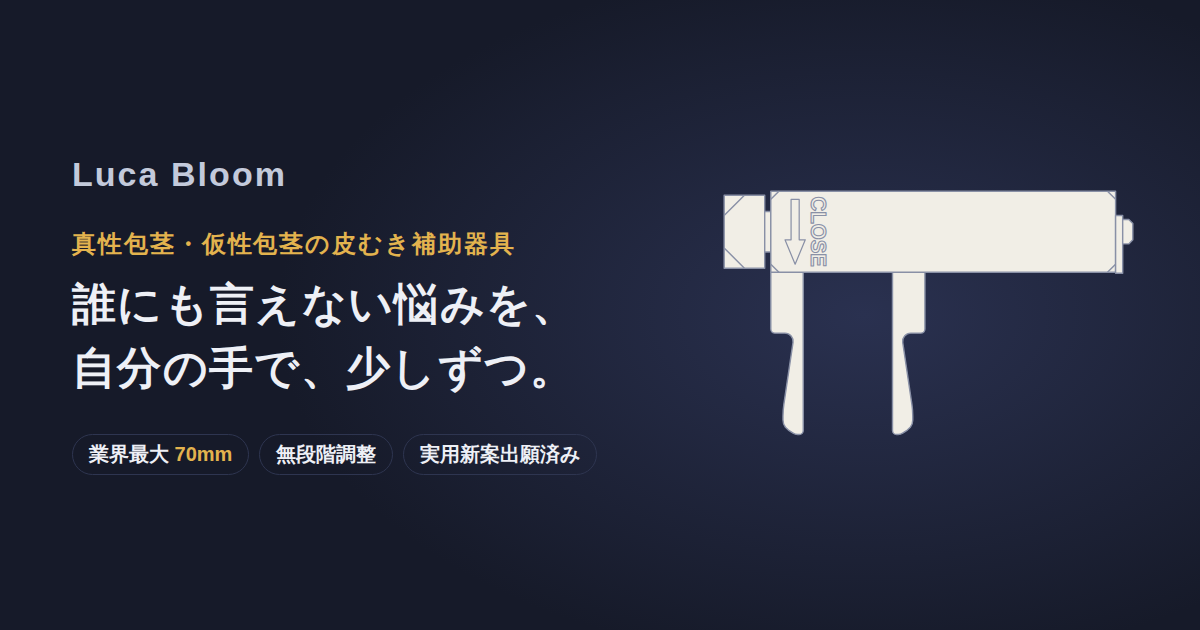
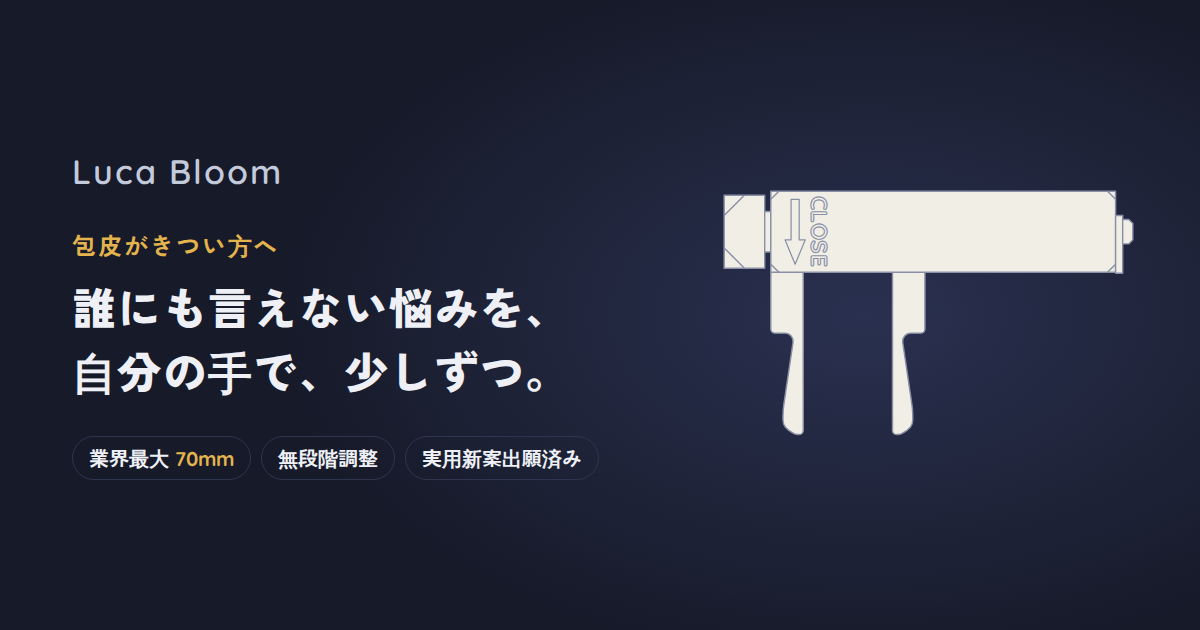
Update copy per review, show the gap in 1mm steps, open manual at top
Change the headline to 包皮がきつい方へ, rename the section to 包茎の種類,
drop the target chips, reword the worries, the types note, the ring
comparison and two FAQ answers to avoid efficacy claims, and emphasise
stepless adjustment in reason 03. Note that the gift box ships inside
an outer carton. Round the gap readout and slider to 1mm. Reset scroll
to the top on the support pages so the manual no longer opens at the
bottom. Regenerate the OG image.

Claude-Session: https://claude.ai/code/session_016YenGTG3x62jvD6ZRQeA6d

diff --git a/index.html b/index.html
@@ -3,8 +3,8 @@
 <head>
 <meta charset="utf-8">
 <meta name="viewport" content="width=device-width, initial-scale=1, viewport-fit=cover">
-<title>真性包茎・仮性包茎の皮むき補助器具｜包茎リングとの違い｜Luca Bloom</title>
-<meta name="description" content="真性包茎・仮性包茎など、包皮の口が狭くてむけない方の皮むき補助器具 Luca Bloom（ルカブルーム）。包茎リングと違い、狭い包皮の口そのものをハンドル操作で10〜70mmまで無段階に広げます。セルフロック構造・実用新案出願済み。">
+<title>包皮がきつい方へ｜包茎の種類と包茎リングとの違い｜Luca Bloom</title>
+<meta name="description" content="包皮がきつい方へ。Luca Bloom（ルカブルーム）は、包皮が狭い方や匂いが気になる方のためのセルフケアツール。ハンドルを回してアームの間隔を10〜70mmで無段階に調整でき、手を離してもその幅で止まるセルフロック構造。真性包茎・仮性包茎など包茎の種類や、包茎リングとの違いも紹介。実用新案出願済み。">
 <link rel="canonical" href="https://luca-bloom.com/">
 <meta name="robots" content="index,follow,max-image-preview:large">
 <meta name="theme-color" content="#161A29">
@@ -13,19 +13,19 @@
 <meta property="og:type" content="product">
 <meta property="og:site_name" content="Luca Bloom">
 <meta property="og:locale" content="ja_JP">
-<meta property="og:title" content="真性包茎・仮性包茎の皮むき補助器具｜包茎リングとの違い｜Luca Bloom">
-<meta property="og:description" content="真性包茎・仮性包茎の皮むき補助に。ハンドルを回すだけ。ずれにくく、手を離しても戻らない。最大70mmまで、自分のペースで広げられる皮むき補助セルフケアツール。">
+<meta property="og:title" content="包皮がきつい方へ｜包茎の種類と包茎リングとの違い｜Luca Bloom">
+<meta property="og:description" content="包皮がきつい方へ。ハンドルを回すだけで、アームの間隔を10〜70mmで無段階に調整。手を離してもその幅で止まるセルフケアツール。">
 <meta property="og:url" content="https://luca-bloom.com/">
 <meta property="og:image" content="https://luca-bloom.com/og.png">
 <meta property="og:image:width" content="1200">
 <meta property="og:image:height" content="630">
 <meta property="og:image:alt" content="Luca Bloom 本体の図">
 <meta name="twitter:card" content="summary_large_image">
-<meta name="twitter:title" content="真性包茎・仮性包茎の皮むき補助器具｜包茎リングとの違い｜Luca Bloom">
+<meta name="twitter:title" content="包皮がきつい方へ｜包茎の種類と包茎リングとの違い｜Luca Bloom">
 <meta name="twitter:image" content="https://luca-bloom.com/og.png">
-<script type="application/ld+json">{"@context":"https://schema.org","@type":"Product","name":"Luca Bloom","alternateName":"ルカブルーム","description":"真性包茎・仮性包茎など、包皮の口が狭くてむけない方の皮むき補助器具 Luca Bloom（ルカブルーム）。包茎リングと違い、狭い包皮の口そのものをハンドル操作で10〜70mmまで無段階に広げます。セルフロック構造・実用新案出願済み。","brand":{"@type":"Brand","name":"Luca Bloom"},"image":["https://luca-bloom.com/og.png"],"material":"POM（ポリアセタール樹脂）","category":"メンズケア・包茎セルフケア用品","additionalProperty":[{"@type":"PropertyValue","name":"開き幅","value":"10〜70mm"},{"@type":"PropertyValue","name":"本体サイズ","value":"85×20×20mm"}],"offers":{"@type":"Offer","url":"https://www.amazon.co.jp/dp/B0HHXQ1X4C","availability":"https://schema.org/InStock"}}</script>
-<script type="application/ld+json">{"@context":"https://schema.org","@type":"FAQPage","mainEntity":[{"@type":"Question","name":"真性包茎・仮性包茎のどちらに使えますか？","acceptedAnswer":{"@type":"Answer","text":"包皮が狭く、亀頭が露出しにくい方に向けたセルフケアツールです。真性・仮性を問わず、包皮の狭い部分を少しずつ広げる皮むき補助としてお使いいただけます。痛みや症状がある場合は医師にご相談ください。"}},{"@type":"Question","name":"包茎リングとは何が違いますか？","acceptedAnswer":{"@type":"Answer","text":"包茎リングは、むいた包皮を根元側に留めておくための輪です。Luca Bloomは、包皮の口が狭くてむけない方のために、その口を内側から少しずつ広げる器具です。"}},{"@type":"Question","name":"家族に中身を知られませんか？","acceptedAnswer":{"@type":"Answer","text":"箱にはブランド名「Luca Bloom」だけが入っており、製品名から梱包まで、ひと目で用途がわからないようにしています。"}},{"@type":"Question","name":"痛くないですか？","acceptedAnswer":{"@type":"Answer","text":"無段階で少しずつ開けるので、痛みを感じない幅で止められます。クリームやオイルで保湿・潤滑してからお使いください。痛みや異変があれば、すぐに使用を中止してください。"}},{"@type":"Question","name":"どれくらい使えばいいですか？","acceptedAnswer":{"@type":"Answer","text":"1回30分以内、24時間の合計1時間以内でお使いください。就寝中の使用はできません。焦らず、十分な期間をかけてお使いください。"}},{"@type":"Question","name":"アームの先端が少し開いています。","acceptedAnswer":{"@type":"Answer","text":"個体差により、アームの先端がわずかに開いている場合があります。製品の仕様ですので、ご了承ください。"}},{"@type":"Question","name":"医療機器ですか？","acceptedAnswer":{"@type":"Answer","text":"本製品は雑貨であり、医療機器ではありません。治療に関する効果をうたうものではありません。"}}]}</script>
-<script type="application/ld+json">{"@context":"https://schema.org","@type":"WebPage","name":"真性包茎・仮性包茎の皮むき補助器具｜包茎リングとの違い｜Luca Bloom","url":"https://luca-bloom.com/","inLanguage":"ja","description":"真性包茎・仮性包茎など、包皮の口が狭くてむけない方の皮むき補助器具 Luca Bloom（ルカブルーム）。包茎リングと違い、狭い包皮の口そのものをハンドル操作で10〜70mmまで無段階に広げます。セルフロック構造・実用新案出願済み。","keywords":"真性包茎,仮性包茎,仮性包茎リング,包茎リング,カントン包茎,皮むき補助,包皮 狭い,包茎 セルフケア"}</script>
+<script type="application/ld+json">{"@context":"https://schema.org","@type":"Product","name":"Luca Bloom","alternateName":"ルカブルーム","description":"包皮がきつい方へ。Luca Bloom（ルカブルーム）は、包皮が狭い方や匂いが気になる方のためのセルフケアツール。ハンドルを回してアームの間隔を10〜70mmで無段階に調整でき、手を離してもその幅で止まるセルフロック構造。真性包茎・仮性包茎など包茎の種類や、包茎リングとの違いも紹介。実用新案出願済み。","brand":{"@type":"Brand","name":"Luca Bloom"},"image":["https://luca-bloom.com/og.png"],"material":"POM（ポリアセタール樹脂）","category":"メンズケア・包茎セルフケア用品","additionalProperty":[{"@type":"PropertyValue","name":"開き幅","value":"10〜70mm"},{"@type":"PropertyValue","name":"本体サイズ","value":"85×20×20mm"}],"offers":{"@type":"Offer","url":"https://www.amazon.co.jp/dp/B0HHXQ1X4C","availability":"https://schema.org/InStock"}}</script>
+<script type="application/ld+json">{"@context":"https://schema.org","@type":"FAQPage","mainEntity":[{"@type":"Question","name":"真性包茎・仮性包茎のどちらに使えますか？","acceptedAnswer":{"@type":"Answer","text":"Luca Bloomは、包皮が狭い方や匂いが気になる方のためのセルフケアツール（雑貨）です。特定の症状の改善や治療を目的としたものではありません。痛み・腫れ・傷などがある場合や、治療中の方はご使用にならず、医師にご相談ください。"}},{"@type":"Question","name":"包茎リングとは何が違いますか？","acceptedAnswer":{"@type":"Answer","text":"包茎リングは、むいた包皮を根元側に留めておくための輪です。Luca Bloomは、ハンドルを回してアームの間隔を10〜70mmの間で無段階に調整する、リングをつけられない方のためのセルフケアツールです。"}},{"@type":"Question","name":"家族に中身を知られませんか？","acceptedAnswer":{"@type":"Answer","text":"箱にはブランド名「Luca Bloom」だけが入っており、製品名から梱包まで、ひと目で用途がわからないようにしています。"}},{"@type":"Question","name":"痛くないですか？","acceptedAnswer":{"@type":"Answer","text":"無段階で少しずつ開けるので、痛みを感じない幅で止められます。クリームやオイルで保湿・潤滑してからお使いください。痛みや異変があれば、すぐに使用を中止してください。"}},{"@type":"Question","name":"どれくらい使えばいいですか？","acceptedAnswer":{"@type":"Answer","text":"1回30分以内、24時間の合計1時間以内でお使いください。就寝中の使用はできません。焦らず、十分な期間をかけてお使いください。"}},{"@type":"Question","name":"アームの先端が少し開いています。","acceptedAnswer":{"@type":"Answer","text":"個体差により、アームの先端がわずかに開いている場合があります。製品の仕様ですので、ご了承ください。"}},{"@type":"Question","name":"医療機器ですか？","acceptedAnswer":{"@type":"Answer","text":"本製品は雑貨であり、医療機器ではありません。治療に関する効果をうたうものではありません。"}}]}</script>
+<script type="application/ld+json">{"@context":"https://schema.org","@type":"WebPage","name":"包皮がきつい方へ｜包茎の種類と包茎リングとの違い｜Luca Bloom","url":"https://luca-bloom.com/","inLanguage":"ja","description":"包皮がきつい方へ。Luca Bloom（ルカブルーム）は、包皮が狭い方や匂いが気になる方のためのセルフケアツール。ハンドルを回してアームの間隔を10〜70mmで無段階に調整でき、手を離してもその幅で止まるセルフロック構造。真性包茎・仮性包茎など包茎の種類や、包茎リングとの違いも紹介。実用新案出願済み。","keywords":"包皮がきつい,包茎の種類,真性包茎,仮性包茎,包茎リング,仮性包茎リング,セルフケアツール,Luca Bloom"}</script>
 <link rel="preconnect" href="https://fonts.googleapis.com">
 <link rel="preconnect" href="https://fonts.gstatic.com" crossorigin>
 <link rel="stylesheet" href="https://fonts.googleapis.com/css2?family=Montserrat:wght@200&family=Quicksand:wght@500;600;700&family=Zen+Kaku+Gothic+New:wght@400;500;700;900&display=swap">
@@ -129,7 +129,6 @@ small.gl{font-size:12px;color:var(--muted);font-weight:400}
 .types>div{background:var(--white);border-radius:16px;padding:16px 18px;display:grid;gap:4px}
 .types h3{font-size:18px;font-weight:900}
 .types p{font-size:14px;color:#3E4352;line-height:1.7}
-.types .fit{justify-self:start;margin-top:4px;font-size:11.5px;font-weight:700;color:var(--navy);background:#F3E6C4;border-radius:99px;padding:2px 10px}
 .types-note{margin-top:14px;font-size:13.5px;color:var(--muted);line-height:1.75}
 .sec .h2-next{margin-top:52px}
 .cmp{margin-top:18px;background:var(--white);border-radius:16px;overflow:hidden;font-size:13.5px;line-height:1.55}
@@ -238,7 +237,7 @@ footer p{margin-top:8px}
       <a class="logo" href="#top">Luca Bloom</a>
       <span class="pill">実用新案出願済み</span>
     </div>
-    <h1 id="top"><span class="for">真性包茎・仮性包茎の皮むき補助器具</span><span class="catch"><span>誰にも言えない</span><span>悩みを、</span><br><span>自分の手で、</span><span>少しずつ。</span></span></h1>
+    <h1 id="top"><span class="for">包皮がきつい方へ</span><span class="catch"><span>誰にも言えない</span><span>悩みを、</span><br><span>自分の手で、</span><span>少しずつ。</span></span></h1>
     <p class="lead">ハンドルを回すだけ。ずれにくく、手を離しても戻らない。最大70mmまで、あなたのペースで広げられます。</p>
 
     <div class="stage" id="stage" aria-label="Luca Bloomの3Dモデル。横にドラッグすると回転します。">
@@ -254,7 +253,7 @@ footer p{margin-top:8px}
     </div>
     <div class="meter">
       <div class="meter-row"><span>ハンドルを回して開き幅を調整</span><b id="gapv">10<small>mm</small></b></div>
-      <input id="gap" type="range" min="10" max="70" step="0.5" value="10" aria-label="開き幅">
+      <input id="gap" type="range" min="10" max="70" step="1" value="10" aria-label="開き幅">
       <div class="ends"><span>10mm</span><span>MAX 70mm</span></div>
     </div>
 
@@ -278,7 +277,7 @@ footer p{margin-top:8px}
     <p class="label">Your worries</p>
     <h2>こんなお悩み、<br>ひとりで<span style="display:inline-block">抱えていませんか？</span></h2>
     <ul class="worry">
-      <li><svg viewBox="0 0 22 22" aria-hidden="true"><circle cx="11" cy="11" r="10" fill="#161A29"/><path d="M6.5 11.2l3 3 6-6.4" fill="none" stroke="#E3B34E" stroke-width="2.2" stroke-linecap="round" stroke-linejoin="round"/></svg>包皮の口が狭くて、むけない。むくと痛い。</li>
+      <li><svg viewBox="0 0 22 22" aria-hidden="true"><circle cx="11" cy="11" r="10" fill="#161A29"/><path d="M6.5 11.2l3 3 6-6.4" fill="none" stroke="#E3B34E" stroke-width="2.2" stroke-linecap="round" stroke-linejoin="round"/></svg>包皮の口が狭くて困っている。</li>
       <li><svg viewBox="0 0 22 22" aria-hidden="true"><circle cx="11" cy="11" r="10" fill="#161A29"/><path d="M6.5 11.2l3 3 6-6.4" fill="none" stroke="#E3B34E" stroke-width="2.2" stroke-linecap="round" stroke-linejoin="round"/></svg>誰かに相談するのは、正直恥ずかしい。</li>
       <li><svg viewBox="0 0 22 22" aria-hidden="true"><circle cx="11" cy="11" r="10" fill="#161A29"/><path d="M6.5 11.2l3 3 6-6.4" fill="none" stroke="#E3B34E" stroke-width="2.2" stroke-linecap="round" stroke-linejoin="round"/></svg>器具を試したけど、ずれる・痛い・続かない。</li>
       <li><svg viewBox="0 0 22 22" aria-hidden="true"><circle cx="11" cy="11" r="10" fill="#161A29"/><path d="M6.5 11.2l3 3 6-6.4" fill="none" stroke="#E3B34E" stroke-width="2.2" stroke-linecap="round" stroke-linejoin="round"/></svg>家族に届いた荷物を見られたくない。</li>
@@ -300,7 +299,7 @@ footer p{margin-top:8px}
 
       <article class="reason">
         <div class="ill">
-          <svg viewBox="-9 -3 70 64" role="img" aria-label="真性包茎・仮性包茎の皮むき補助：逆テーパーアームのくぼみに包皮が収まり、太い先端で抜けにくい様子">
+          <svg viewBox="-9 -3 70 64" role="img" aria-label="逆テーパーアームのくぼみに包皮が収まり、太い先端で抜けにくい様子">
             <path d="M4.6 37.5A10.4 2.4 0 0 1 25.4 37.5" fill="none" stroke="#C9707F" stroke-width="1.3" opacity=".55"/>
             <g fill="#FFFFFF" stroke="#8990A6" stroke-width=".35" stroke-linejoin="round">
               <use href="#lb-arm" transform="translate(8 20) scale(-1 1)"/>
@@ -381,13 +380,13 @@ footer p{margin-top:8px}
             <path d="M214 84v-12a16 16 0 0 1 32 0v12" fill="none" stroke="#161A29" stroke-width="7"/>
             <circle cx="230" cy="104" r="6" fill="#E3B34E"/>
             <path d="M230 108v10" stroke="#E3B34E" stroke-width="4" stroke-linecap="round"/>
-            <text x="92" y="165" text-anchor="middle" font-family="Zen Kaku Gothic New,sans-serif" font-size="12" font-weight="700" fill="#161A29">ハンドルを回すだけ</text>
+            <text x="92" y="165" text-anchor="middle" font-family="Zen Kaku Gothic New,sans-serif" font-size="12" font-weight="700" fill="#161A29">無段階調整</text>
             <text x="230" y="165" text-anchor="middle" font-family="Zen Kaku Gothic New,sans-serif" font-size="12" font-weight="700" fill="#161A29">戻らない</text>
           </svg>
         </div>
         <div class="body">
           <p class="no">REASON 03</p>
-          <h3>回すだけ。<br>手を離しても戻らない。</h3>
+          <h3>無段階調整で、<br>ちょうどいい幅にぴたり。</h3>
           <p>ハンドルを回すと、アームがなめらかに開きます。段階ではなく無段階なので、「ちょうどいい幅」でぴたりと止められます。ネジの力でその位置に固定される構造<small class="gl">（セルフロック）</small>なので、手を離しても急に閉じません。</p>
         </div>
       </article>
@@ -422,20 +421,20 @@ footer p{margin-top:8px}
 <section class="sec" id="houkei" style="padding-top:0">
   <div class="wrap">
     <p class="label">About</p>
-    <h2>真性包茎・仮性包茎とは</h2>
+    <h2>包茎の種類</h2>
     <div class="types">
-      <div><h3>真性包茎</h3><p>包皮の口が狭く、手でむいても亀頭を出せない状態。</p><span class="fit">Luca Bloomの対象</span></div>
-      <div><h3>仮性包茎</h3><p>ふだんは包皮をかぶっているが、手でむけば亀頭を出せる状態。むくと口が締めつけられる方も。</p><span class="fit">口が狭い方に</span></div>
-      <div><h3>カントン包茎</h3><p>むくことはできても、包皮の口が狭く、根元側で締めつけられる状態。</p><span class="fit">口が狭い方に</span></div>
+      <div><h3>真性包茎</h3><p>包皮の口が狭く、手でむいても亀頭を出せない状態。</p></div>
+      <div><h3>仮性包茎</h3><p>ふだんは包皮をかぶっているが、手でむけば亀頭を出せる状態。むくと口が締めつけられる方も。</p></div>
+      <div><h3>カントン包茎</h3><p>むくことはできても、包皮の口が狭く、根元側で締めつけられる状態。</p></div>
     </div>
-    <p class="types-note">Luca Bloomは、包皮の口が狭くて「むけない」「むくと痛い」方のための皮むき補助器具です。狭い口を内側から少しずつ広げます。<br>痛み・腫れ・出血がある場合や、むいた包皮が戻らない場合は、すぐに医療機関を受診してください。</p>
+    <p class="types-note">Luca Bloomは、包皮が狭い方や匂いが気になる方のためのセルフケアツールです。<br>痛み・腫れ・出血がある場合や、むいた包皮が戻らない場合は、すぐに医療機関を受診してください。</p>
 
     <h2 class="h2-next">仮性包茎リングとの違い</h2>
-    <p class="sub">仮性包茎リング（包茎リング）は、むいた包皮を根元側に留めておくための輪です。包皮の口が狭く、むけない状態ではリングを付けられません。</p>
+    <p class="sub">仮性包茎リング（包茎リング）は、むいた包皮を根元側に留めておくための輪です。リングをつけられない方のためのLuca Bloomです。</p>
     <div class="cmp" role="table" aria-label="包茎リングとLuca Bloomの比較">
       <div class="r h" role="row"><span role="columnheader"></span><span role="columnheader">包茎リング</span><span role="columnheader">Luca Bloom</span></div>
       <div class="r" role="row"><span role="rowheader">目的</span><span role="cell">むいた状態を保つ</span><span role="cell">狭い口を広げる</span></div>
-      <div class="r" role="row"><span role="rowheader">向いている方</span><span role="cell">手でむける方</span><span role="cell">むけない・むくと痛い方</span></div>
+      <div class="r" role="row"><span role="rowheader">向いている方</span><span role="cell">手でむける方</span><span role="cell">包皮がきつい方</span></div>
       <div class="r" role="row"><span role="rowheader">サイズ</span><span role="cell">輪の大きさを選ぶ</span><span role="cell">1台で10〜70mm無段階</span></div>
     </div>
     <p class="types-note">「リングを使いたいけれど、そもそもむけない」という方の、最初の一歩に。</p>
@@ -451,8 +450,9 @@ footer p{margin-top:8px}
     <div class="boxstage" id="boxstage" aria-label="化粧箱の3Dモデル。横にドラッグすると回転します。">
       <div class="fb" id="boxfb"><svg viewBox="-228.24 -82.00 402.78 337.00" role="img" aria-label="PANTONE 289 Cのボックス。背面にCool Gray 1 Cで「Luca Bloom」の文字だけ"><ellipse cx="-26.85" cy="229.00" rx="169.17" ry="9" fill="#0E1120" opacity=".55"/><path d="M0.00 -72.00 L-218.24 54.00 L-53.69 149.00 L164.54 23.00Z" fill="#1A3A63" stroke="#2C4A78" stroke-width="0.6" stroke-linejoin="round"/><path d="M164.54 95.00 L-53.69 221.00 L-53.69 149.00 L164.54 23.00Z" fill="#0C2340" stroke="#2C4A78" stroke-width="0.6" stroke-linejoin="round"/><path d="M-218.24 126.00 L-53.69 221.00 L-53.69 149.00 L-218.24 54.00Z" fill="#081A31" stroke="#2C4A78" stroke-width="0.6" stroke-linejoin="round"/><path d="M-218.24 62.00L-53.69 157.00" stroke="#2C4A78" stroke-width=".8"/><text transform="matrix(1.73 -1.00 0 2.00 55.43 122.00)" x="0" y="3.25" text-anchor="middle" font-family="Montserrat,Quicksand,sans-serif" font-weight="200" font-size="9.2" textLength="50" lengthAdjust="spacingAndGlyphs" fill="#D9D9D6">Luca Bloom</text></svg><svg viewBox="-203.12 -506.61 431.36 532.61" role="img" aria-label="ボックスを開けた状態。黒いクッション材の専用くぼみに本体が収まり、フタの内側に名刺サイズのポケット"><ellipse cx="12.56" cy="8.00" rx="181.17" ry="9" fill="#0E1120" opacity=".55"/><path d="M-164.54 -167.00 L53.69 -293.00 L25.12 -496.61 L-193.12 -370.61Z" fill="#10284A" stroke="#2C4A78" stroke-width="0.6" stroke-linejoin="round"/><path d="M-143.83 -219.51 L22.45 -315.51 L4.40 -444.10 L-161.87 -348.10Z" fill="#0C2340" stroke="#3A5584" stroke-width="0.8" stroke-linejoin="round"/><path d="M-61.41 -406.10 L-61.16 -401.73 L-61.58 -397.14 L-62.66 -392.51 L-64.36 -388.02 L-66.61 -383.84 L-69.33 -380.13 L-72.41 -377.03 L-75.73 -374.67 L-79.16 -373.13 L-82.58 -372.47 L-85.86 -372.73 L-88.86 -373.88 L-91.47 -375.88 L-93.59 -378.66 L-95.14 -382.11 L-96.06 -386.10Z" fill="#081A31" stroke="#3A5584" stroke-width="0.8" stroke-linejoin="round"/><path d="M-157.62 -159.00 L53.69 -281.00 L53.69 -289.00 L-157.62 -167.00Z" fill="#081A31"/><path d="M211.31 -190.00 L53.69 -281.00 L53.69 -289.00 L211.31 -198.00Z" fill="#0A1F3A"/><path d="M0.00 -68.00 L211.31 -190.00 L53.69 -281.00 L-157.62 -159.00Z" fill="#161616" stroke="#000" stroke-width="0.5" stroke-linejoin="round"/><g transform="matrix(1.73 -1.00 1.73 1.00 -84.70 -161.10)"><g fill="#050505"><circle cx="42.4" cy="-0.5" r="10"/><circle cx="42.4" cy="20.5" r="10"/></g><g fill="#050505" stroke="#050505" stroke-width="2.2" stroke-linejoin="round"><use href="#lb-arm" transform="translate(8 20) scale(-1 1)"/><use href="#lb-arm" transform="translate(8 20)"/><use href="#lb-body"/></g><g fill="#ECE8DF" stroke="#A8A294" stroke-width=".3" stroke-linejoin="round"><use href="#lb-arm" transform="translate(8 20) scale(-1 1)"/><use href="#lb-arm" transform="translate(8 20)"/><use href="#lb-body"/></g></g><path d="M0.00 0.00 L-164.54 -95.00 L-164.54 -167.00 L0.00 -72.00Z" fill="#081A31" stroke="#2C4A78" stroke-width="0.6" stroke-linejoin="round"/><path d="M0.00 0.00 L218.24 -126.00 L218.24 -198.00 L0.00 -72.00Z" fill="#0C2340" stroke="#2C4A78" stroke-width="0.6" stroke-linejoin="round"/><path d="M0.00 -72.00L218.24 -198.00L53.69 -293.00M0.00 -72.00L-164.54 -167.00" fill="none" stroke="#2C4A78" stroke-width="1.2"/></svg></div>
     </div>
-    <p class="box-cap">外から見えるのは、背面の「Luca Bloom」の文字だけ。<br>開けると、黒いクッション材の専用くぼみに本体が収まっています。</p>
+    <p class="box-cap">化粧箱の表記は、背面の「Luca Bloom」の文字だけ。<br>発送時は、この化粧箱をさらに段ボール等で梱包してお届けします。</p>
     <ul class="privacy-points">
+      <li><svg viewBox="0 0 20 20" aria-hidden="true"><circle cx="10" cy="10" r="9" fill="none" stroke="#E3B34E" stroke-width="1.6"/><path d="M6 10.2l2.6 2.6L14 7.4" fill="none" stroke="#E3B34E" stroke-width="1.8" stroke-linecap="round" stroke-linejoin="round"/></svg>発送時は、化粧箱をさらに段ボール等で梱包</li>
       <li><svg viewBox="0 0 20 20" aria-hidden="true"><circle cx="10" cy="10" r="9" fill="none" stroke="#E3B34E" stroke-width="1.6"/><path d="M6 10.2l2.6 2.6L14 7.4" fill="none" stroke="#E3B34E" stroke-width="1.8" stroke-linecap="round" stroke-linejoin="round"/></svg>箱にはブランド名「Luca Bloom」だけ</li>
       <li><svg viewBox="0 0 20 20" aria-hidden="true"><circle cx="10" cy="10" r="9" fill="none" stroke="#E3B34E" stroke-width="1.6"/><path d="M6 10.2l2.6 2.6L14 7.4" fill="none" stroke="#E3B34E" stroke-width="1.8" stroke-linecap="round" stroke-linejoin="round"/></svg>本体は専用のクッション材に収めてお届け</li>
       <li><svg viewBox="0 0 20 20" aria-hidden="true"><circle cx="10" cy="10" r="9" fill="none" stroke="#E3B34E" stroke-width="1.6"/><path d="M6 10.2l2.6 2.6L14 7.4" fill="none" stroke="#E3B34E" stroke-width="1.8" stroke-linecap="round" stroke-linejoin="round"/></svg>そのまま引き出しにしまえる上質なボックス</li>
@@ -515,8 +515,8 @@ footer p{margin-top:8px}
     <p class="label">FAQ</p>
     <h2>よくある質問</h2>
     <div class="faq">
-      <details><summary>真性包茎・仮性包茎のどちらに使えますか？</summary><p>包皮が狭く、亀頭が露出しにくい方に向けたセルフケアツールです。真性・仮性を問わず、包皮の狭い部分を少しずつ広げる皮むき補助としてお使いいただけます。痛みや症状がある場合は医師にご相談ください。</p></details>
-      <details><summary>包茎リングとは何が違いますか？</summary><p>包茎リングは、むいた包皮を根元側に留めておくための輪です。Luca Bloomは、包皮の口が狭くてむけない方のために、その口を内側から少しずつ広げる器具です。</p></details>
+      <details><summary>真性包茎・仮性包茎のどちらに使えますか？</summary><p>Luca Bloomは、包皮が狭い方や匂いが気になる方のためのセルフケアツール（雑貨）です。特定の症状の改善や治療を目的としたものではありません。痛み・腫れ・傷などがある場合や、治療中の方はご使用にならず、医師にご相談ください。</p></details>
+      <details><summary>包茎リングとは何が違いますか？</summary><p>包茎リングは、むいた包皮を根元側に留めておくための輪です。Luca Bloomは、ハンドルを回してアームの間隔を10〜70mmの間で無段階に調整する、リングをつけられない方のためのセルフケアツールです。</p></details>
       <details><summary>家族に中身を知られませんか？</summary><p>箱にはブランド名「Luca Bloom」だけが入っており、製品名から梱包まで、ひと目で用途がわからないようにしています。</p></details>
       <details><summary>痛くないですか？</summary><p>無段階で少しずつ開けるので、痛みを感じない幅で止められます。クリームやオイルで保湿・潤滑してからお使いください。痛みや異変があれば、すぐに使用を中止してください。</p></details>
       <details><summary>どれくらい使えばいいですか？</summary><p>1回30分以内、24時間の合計1時間以内でお使いください。就寝中の使用はできません。焦らず、十分な期間をかけてお使いください。</p></details>
@@ -575,7 +575,7 @@ footer p{margin-top:8px}
 document.addEventListener('DOMContentLoaded',function(){
   var slider=document.getElementById('gap'), out=document.getElementById('gapv');
   var target=0, current=0, demo=true, kick=function(){};   // target/current = アームの移動量(mm) 0〜60。開き幅 = 10 + 移動量
-  function show(travel){ var v=Math.round((10+travel)*2)/2; out.innerHTML=(v%1?v.toFixed(1):v)+'<small>mm</small>'; }
+  function show(travel){ out.innerHTML=Math.round(10+travel)+'<small>mm</small>'; }   // 表示は1mm刻み
   slider.addEventListener('input',function(){ demo=false; target=parseFloat(slider.value)-10; show(target); kick(); });
 
   var bar=document.getElementById('bar');

diff --git a/jp/index.html b/jp/index.html
@@ -42,5 +42,11 @@
 </div></main>
 
 <footer class="foot"><div class="wrap">© Luca Bloom（ルカ・ブルーム）｜本製品は雑貨であり、医療機器ではありません。</div></footer>
+<script>
+  // 前のページのスクロール位置を引き継がず、常にページ先頭から表示（#付きリンクのときだけその位置へ）
+  if('scrollRestoration' in history) history.scrollRestoration='manual';
+  function toTop(){ if(!location.hash) window.scrollTo(0,0); }
+  toTop(); window.addEventListener('pageshow',toTop); window.addEventListener('load',toTop);
+</script>
 </body>
 </html>

diff --git a/jp/manual.html b/jp/manual.html
@@ -80,5 +80,11 @@
 </div></main>
 
 <footer class="foot"><div class="wrap">© Luca Bloom（ルカ・ブルーム）｜本製品は雑貨であり、医療機器ではありません。</div></footer>
+<script>
+  // 前のページのスクロール位置を引き継がず、常にページ先頭から表示（#付きリンクのときだけその位置へ）
+  if('scrollRestoration' in history) history.scrollRestoration='manual';
+  function toTop(){ if(!location.hash) window.scrollTo(0,0); }
+  toTop(); window.addEventListener('pageshow',toTop); window.addEventListener('load',toTop);
+</script>
 </body>
 </html>
